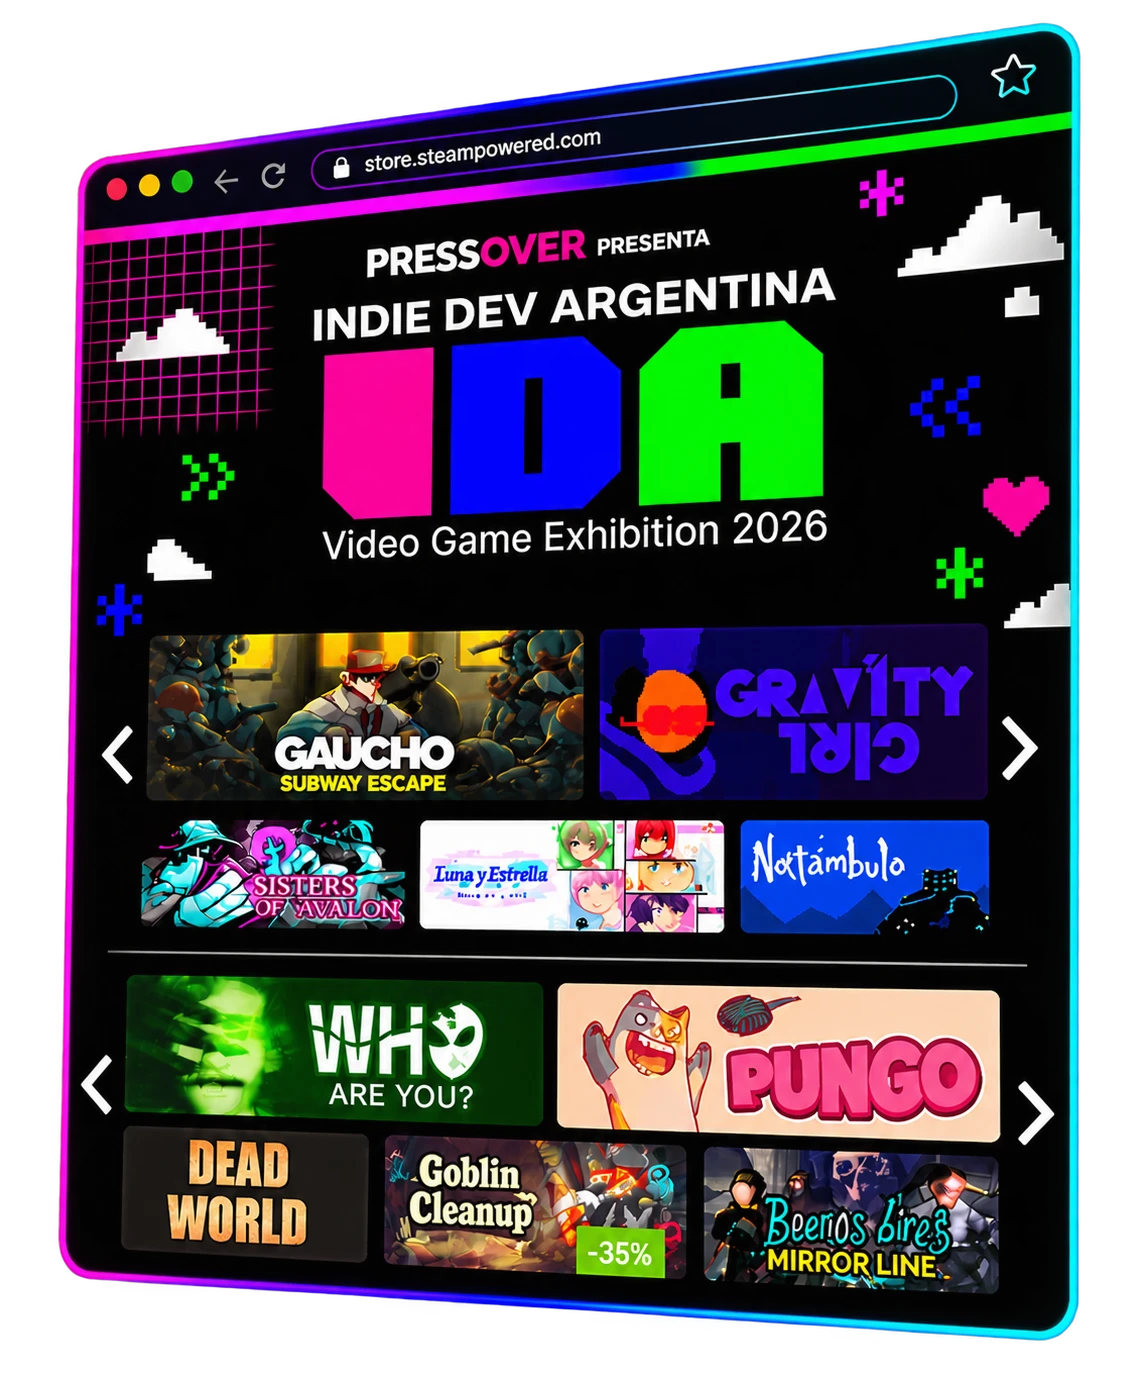
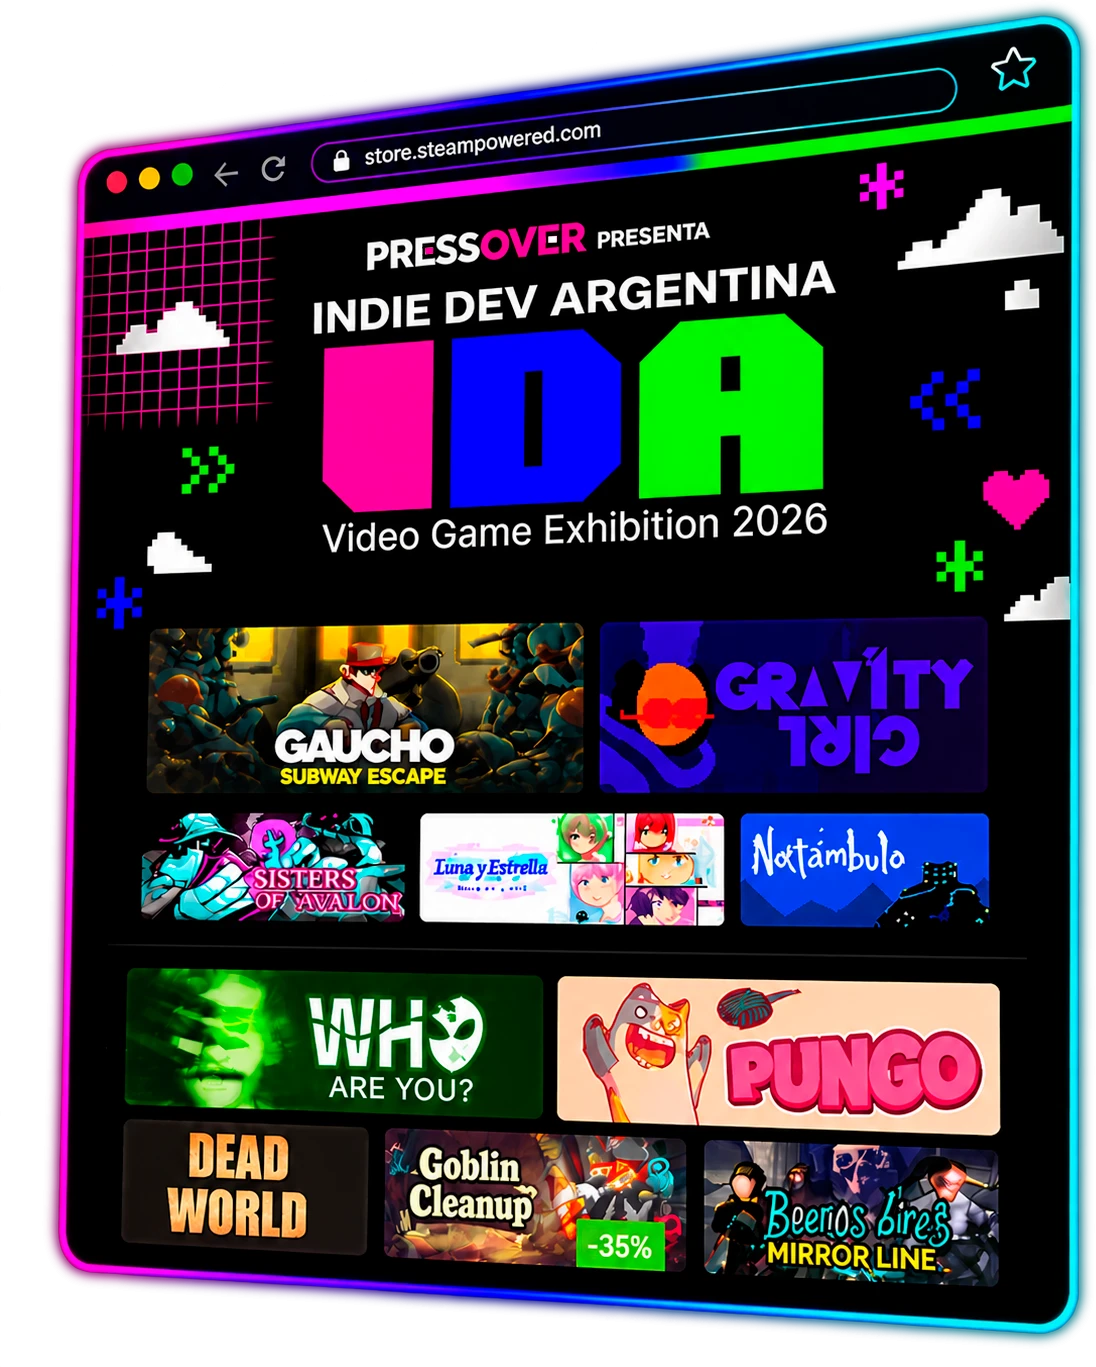
Steam: imagen nueva en la tarjeta de Encontrá tu lugar y mockup actualizado

diff --git a/js/main.js b/js/main.js
@@ -165,7 +165,7 @@
       var o = c[key].open && c[key].url;
       return card(key, img, o ? 'call.open' : 'call.closed', o ? c[key].url : null, 'call.' + key + '.cta');
     }
-    var steamArt = '<img src="' + IMG + 'photos/steam-26.jpg" alt="" loading="lazy" decoding="async" width="800" height="450">';
+    var steamArt = '<img src="' + IMG + 'photos/steam-call.jpg" alt="" loading="lazy" decoding="async" width="800" height="600">';
     el.innerHTML = '<div class="paths">' + call('games', 'g26-15') +
       card('steam', steamArt, 'call.always') +
       call('talks', 'g26-04') +
@@ -270,7 +270,7 @@
         '<a class="pill" href="' + s.url + '" target="_blank" rel="noopener">Ver el evento en Steam</a>' +
         (s.partner ? '<p class="note">Presentado por Indie Dev Argentina y ' + esc(s.partner) + ', el publisher mexicano que hizo posible el acuerdo con Valve.</p>' : '') + '</div>' +
       '<a class="steam__art' + (s.mockup ? ' steam__art--mockup' : s.shot ? ' steam__art--shot' : '') + '" href="' + s.url + '" target="_blank" rel="noopener" aria-label="Abrir el evento de IDA en Steam">' +
-        (s.mockup ? '<img src="' + IMG + 'photos/' + s.mockup + '" alt="La página del evento de IDA ' + e.year + ' en Steam, con los videojuegos de la exhibición" loading="lazy" width="1145" height="1374">' :
+        (s.mockup ? '<img src="' + IMG + 'photos/' + s.mockup + '" alt="La página del evento de IDA ' + e.year + ' en Steam, con los videojuegos de la exhibición" loading="lazy" width="1096" height="1367">' :
          s.shot ? '<img src="' + IMG + 'photos/' + s.shot + '.jpg" alt="La página del evento de IDA ' + e.year + ' en Steam, con la selección de videojuegos de la exhibición presencial" loading="lazy" width="1100" height="1200">'
           : '<img src="' + IMG + 'photos/' + s.img + '.jpg" alt="Indie Dev Argentina, Video Game Exhibition ' + e.year + ', en Steam" loading="lazy" width="800" height="450">') + '</a>' +
     '</div>';

diff --git a/index.html b/index.html
@@ -16,7 +16,7 @@
   <link rel="preconnect" href="https://fonts.googleapis.com">
   <link rel="preconnect" href="https://fonts.gstatic.com" crossorigin>
   <link href="https://fonts.googleapis.com/css2?family=Saira+Condensed:wght@700;800&family=Anton&family=Tomorrow:wght@500;600;700&family=DM+Sans:ital,opsz,wght@0,9..40,400;0,9..40,500;0,9..40,700;1,9..40,400&display=swap" rel="stylesheet">
-  <link rel="stylesheet" href="css/style.css?v=202611081736">
+  <link rel="stylesheet" href="css/style.css?v=202611081843">
 </head>
 <body data-page="home" data-title-es="IDA · Indie Dev Argentina · Exposición de videojuegos independientes" data-title-en="IDA · Indie Dev Argentina · Independent videogame expo">
 
@@ -196,9 +196,9 @@
 <!-- Pie ("Gracias por jugar", hashtag y redes): lo arma js/main.js -->
 <div id="v2-foot"></div>
 
-<script src="data/ediciones.js?v=202611081736"></script>
-<script src="js/i18n.js?v=202611081736"></script>
-<script src="js/textos.js?v=202611081736"></script>
-<script src="js/main.js?v=202611081736"></script>
+<script src="data/ediciones.js?v=202611081843"></script>
+<script src="js/i18n.js?v=202611081843"></script>
+<script src="js/textos.js?v=202611081843"></script>
+<script src="js/main.js?v=202611081843"></script>
 </body>
 </html>

diff --git a/ediciones.html b/ediciones.html
@@ -16,7 +16,7 @@
   <link rel="preconnect" href="https://fonts.googleapis.com">
   <link rel="preconnect" href="https://fonts.gstatic.com" crossorigin>
   <link href="https://fonts.googleapis.com/css2?family=Saira+Condensed:wght@700;800&family=Anton&family=Tomorrow:wght@500;600;700&family=DM+Sans:ital,opsz,wght@0,9..40,400;0,9..40,500;0,9..40,700;1,9..40,400&display=swap" rel="stylesheet">
-  <link rel="stylesheet" href="css/style.css?v=202611081736">
+  <link rel="stylesheet" href="css/style.css?v=202611081843">
 </head>
 <body data-page="ediciones" data-title-es="Ediciones · IDA · Indie Dev Argentina" data-title-en="Editions · IDA · Indie Dev Argentina">
 
@@ -61,9 +61,9 @@
 
 <div id="v2-foot"></div>
 
-<script src="data/ediciones.js?v=202611081736"></script>
-<script src="js/i18n.js?v=202611081736"></script>
-<script src="js/textos.js?v=202611081736"></script>
-<script src="js/main.js?v=202611081736"></script>
+<script src="data/ediciones.js?v=202611081843"></script>
+<script src="js/i18n.js?v=202611081843"></script>
+<script src="js/textos.js?v=202611081843"></script>
+<script src="js/main.js?v=202611081843"></script>
 </body>
 </html>

diff --git a/sponsors.html b/sponsors.html
@@ -16,7 +16,7 @@
   <link rel="preconnect" href="https://fonts.googleapis.com">
   <link rel="preconnect" href="https://fonts.gstatic.com" crossorigin>
   <link href="https://fonts.googleapis.com/css2?family=Saira+Condensed:wght@700;800&family=Anton&family=Tomorrow:wght@500;600;700&family=DM+Sans:ital,opsz,wght@0,9..40,400;0,9..40,500;0,9..40,700;1,9..40,400&display=swap" rel="stylesheet">
-  <link rel="stylesheet" href="css/style.css?v=202611081736">
+  <link rel="stylesheet" href="css/style.css?v=202611081843">
 </head>
 <body data-page="sponsors" data-title-es="Sponsors · IDA · Indie Dev Argentina" data-title-en="Sponsors · IDA · Indie Dev Argentina">
 
@@ -149,9 +149,9 @@
 
 <div id="v2-foot"></div>
 
-<script src="data/ediciones.js?v=202611081736"></script>
-<script src="js/i18n.js?v=202611081736"></script>
-<script src="js/textos.js?v=202611081736"></script>
-<script src="js/main.js?v=202611081736"></script>
+<script src="data/ediciones.js?v=202611081843"></script>
+<script src="js/i18n.js?v=202611081843"></script>
+<script src="js/textos.js?v=202611081843"></script>
+<script src="js/main.js?v=202611081843"></script>
 </body>
 </html>

diff --git a/premios.html b/premios.html
@@ -16,7 +16,7 @@
   <link rel="preconnect" href="https://fonts.googleapis.com">
   <link rel="preconnect" href="https://fonts.gstatic.com" crossorigin>
   <link href="https://fonts.googleapis.com/css2?family=Saira+Condensed:wght@700;800&family=Anton&family=Tomorrow:wght@500;600;700&family=DM+Sans:ital,opsz,wght@0,9..40,400;0,9..40,500;0,9..40,700;1,9..40,400&display=swap" rel="stylesheet">
-  <link rel="stylesheet" href="css/style.css?v=202611081736">
+  <link rel="stylesheet" href="css/style.css?v=202611081843">
 </head>
 <body data-page="premios" data-title-es="Premios IDA · Indie Dev Argentina" data-title-en="IDA Awards · Indie Dev Argentina">
 
@@ -60,9 +60,9 @@
 
 <div id="v2-foot"></div>
 
-<script src="data/ediciones.js?v=202611081736"></script>
-<script src="js/i18n.js?v=202611081736"></script>
-<script src="js/textos.js?v=202611081736"></script>
-<script src="js/main.js?v=202611081736"></script>
+<script src="data/ediciones.js?v=202611081843"></script>
+<script src="js/i18n.js?v=202611081843"></script>
+<script src="js/textos.js?v=202611081843"></script>
+<script src="js/main.js?v=202611081843"></script>
 </body>
 </html>
